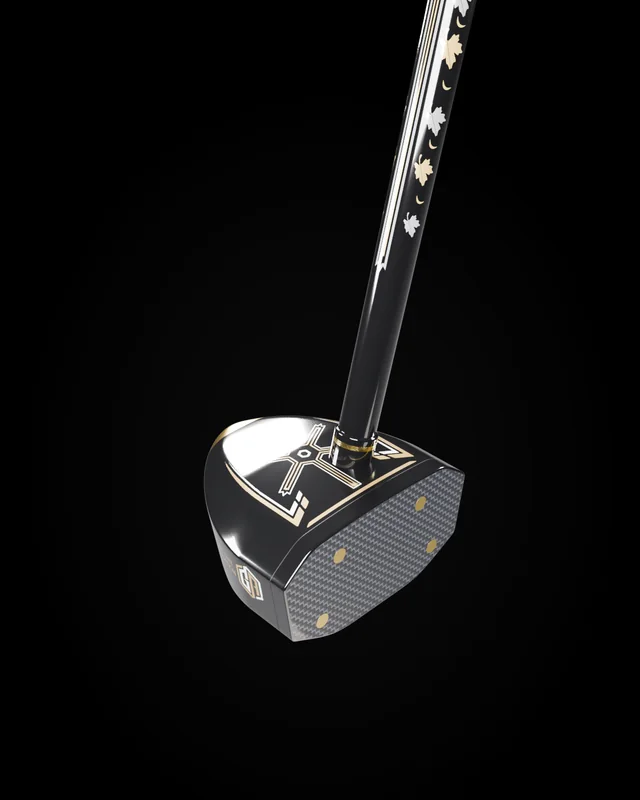
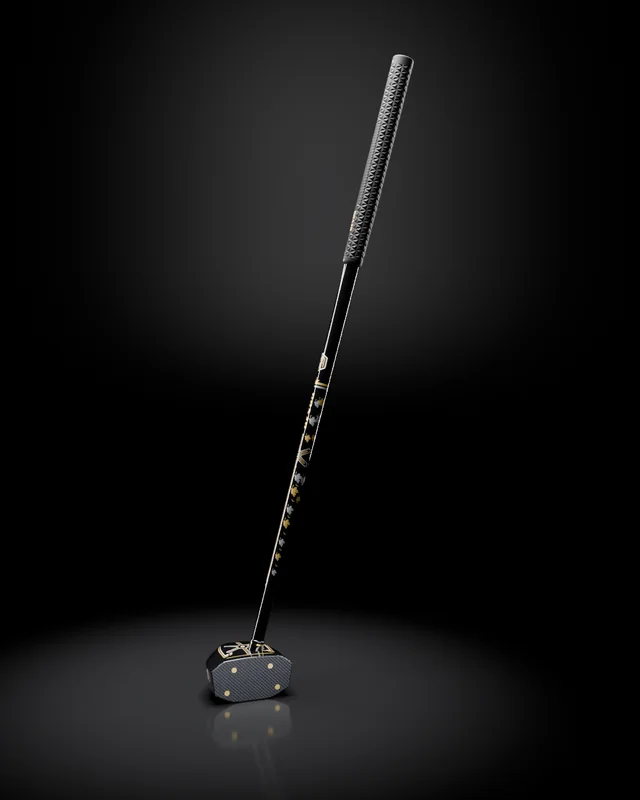
Home: DP-501 card as the whole club in a light column (like the DP-301 card); DP-301 purchase notes
- website/tools/render_card_501.py renders the card from the film scene (light-column backdrop,
  floor pool, rim lights); make_media_501.py --only card publishes it.
- DP-301 buy panel gets the same purchase notes as DP-501 (headcover included instead of the
  park golf certification, which does not apply to the putter).

Claude-Session: https://claude.ai/code/session_01GCpT9mK9AWHbd4r5LVPQn2

diff --git a/website/public/dp-301/index.html b/website/public/dp-301/index.html
@@ -330,7 +330,8 @@
       </a>
       <p class="small muted">스마트스토어 판매가는 425,000원입니다. 사이트에서 결제하시면 제주·도서산간도 배송비가 무료입니다.</p>
       <a class="btn btn-kakao btn-block" href="https://pf.kakao.com/_DFdvX/chat" target="_blank" rel="noopener"><svg viewBox="0 0 24 24" aria-hidden="true"><path d="M12 3.5c-5.25 0-9.5 3.33-9.5 7.44 0 2.66 1.78 4.99 4.46 6.3l-.9 3.3c-.08.29.25.52.5.35l3.95-2.62c.49.07.99.1 1.49.1 5.25 0 9.5-3.33 9.5-7.43S17.25 3.5 12 3.5z"/></svg><span>궁금한 점은 카카오톡으로 물어보세요</span></a>
-      <details class="fold">
+<ul class="trust" aria-label="구매 안내">
+<li>전용 헤드커버 포함</li><li>전국 무료배송</li><li>결제 후 1일 이내 발송</li><li>받은 날부터 7일 이내 교환·반품</li>      </ul>      <details class="fold">
         <summary>배송 · 교환 · 반품 안내</summary>
         <dl class="kv">
           <div><dt>배송비</dt><dd>전국 무료 (제주·도서산간 포함)</dd></div>

diff --git a/website/templates/index.html b/website/templates/index.html
@@ -173,6 +173,9 @@
       {% endif %}
       <p class="small muted">{{ t.buy_note }}</p>
       <a class="btn btn-kakao btn-block" href="{{ kakao_chat_url }}" target="_blank" rel="noopener"><svg viewBox="0 0 24 24" aria-hidden="true"><path d="M12 3.5c-5.25 0-9.5 3.33-9.5 7.44 0 2.66 1.78 4.99 4.46 6.3l-.9 3.3c-.08.29.25.52.5.35l3.95-2.62c.49.07.99.1 1.49.1 5.25 0 9.5-3.33 9.5-7.43S17.25 3.5 12 3.5z"/></svg><span>{{ t.kakao_ask }}</span></a>
+      {% if t.trust %}<ul class="trust" aria-label="구매 안내">
+        {% for x in t.trust %}<li>{{ x }}</li>{% endfor %}
+      </ul>{% endif %}
       <details class="fold">
         <summary>배송 · 교환 · 반품 안내</summary>
         <dl class="kv">

diff --git a/website/public/index.html b/website/public/index.html
@@ -71,7 +71,7 @@
     </article>
     <article class="product-card" data-reveal>
       <a class="product-media" href="/dp-501/" aria-label="GRAZR DP-501 파크골프채 자세히 보기">
-        <img src="/media/home/dp501-640.webp?v=30c9d25c" srcset="/media/home/dp501-640.webp?v=30c9d25c 640w, /media/home/dp501.webp?v=9daf1a22 1200w" sizes="(max-width: 900px) 92vw, 46vw"
+        <img src="/media/home/dp501-640.webp?v=9a3f8de1" srcset="/media/home/dp501-640.webp?v=9a3f8de1 640w, /media/home/dp501.webp?v=764c0569 1200w" sizes="(max-width: 900px) 92vw, 46vw"
              alt="GRAZR DP-501 파크골프채" width="1200" height="1500" loading="lazy">
       </a>
       <div class="product-copy">

diff --git a/website/tools/render_card_501.py b/website/tools/render_card_501.py
@@ -1,0 +1,118 @@
+"""Home-page card for the DP-501: the whole club standing in a soft light column, like the DP-301 card
+(website/tools/render_stills.py full_black). Uses the film scene (video501/scene.py) for the model,
+floor, lights and camera.
+
+  python3 website/tools/render_card_501.py --out 3d-model-dp501/site/card_full.png
+  python3 website/tools/render_card_501.py --out /tmp/x.png --preview
+"""
+import argparse
+import math
+import os
+import sys
+
+HERE = os.path.dirname(os.path.abspath(__file__))
+ROOT_DIR = os.path.dirname(os.path.dirname(HERE))
+sys.path.insert(0, os.path.join(ROOT_DIR, "video501"))
+sys.argv = [sys.argv[0]] + [a for a in sys.argv[1:]]
+import bpy  # noqa: E402
+from mathutils import Vector  # noqa: E402
+
+import scene as S  # noqa: E402
+
+# soft vertical light column far behind the club (the black shaft reads against it), as on the DP-301 card
+bd_me = bpy.data.meshes.new("backdrop")
+bd_me.from_pydata([(-1.5, -1.5, 0), (1.5, -1.5, 0), (1.5, 1.5, 0), (-1.5, 1.5, 0)], [], [(0, 1, 2, 3)])
+BACK = bpy.data.objects.new("Backdrop", bd_me)
+S.sc.collection.objects.link(BACK)
+m = bpy.data.materials.new("Backdrop_Glow")
+m.use_nodes = True
+nt = m.node_tree
+for n in list(nt.nodes):
+    if n.type != "OUTPUT_MATERIAL":
+        nt.nodes.remove(n)
+tco = nt.nodes.new("ShaderNodeTexCoord")
+sep = nt.nodes.new("ShaderNodeSeparateXYZ")
+nt.links.new(tco.outputs["Object"], sep.inputs[0])
+# glow = exp(-(x/wx)^2) * smoothstep falloff in y (brighter above), all in object space (metres)
+sx = nt.nodes.new("ShaderNodeMath"); sx.operation = "DIVIDE"; sx.inputs[1].default_value = 0.60
+nt.links.new(sep.outputs["X"], sx.inputs[0])
+sq = nt.nodes.new("ShaderNodeMath"); sq.operation = "POWER"; sq.inputs[1].default_value = 2.0
+nt.links.new(sx.outputs[0], sq.inputs[0])
+ng = nt.nodes.new("ShaderNodeMath"); ng.operation = "MULTIPLY"; ng.inputs[1].default_value = -1.0
+nt.links.new(sq.outputs[0], ng.inputs[0])
+ex = nt.nodes.new("ShaderNodeMath"); ex.operation = "EXPONENT"
+nt.links.new(ng.outputs[0], ex.inputs[0])
+vy = nt.nodes.new("ShaderNodeMapRange"); vy.interpolation_type = "SMOOTHERSTEP"
+vy.inputs["From Min"].default_value = -0.40
+vy.inputs["From Max"].default_value = 0.40
+nt.links.new(sep.outputs["Y"], vy.inputs["Value"])
+top = nt.nodes.new("ShaderNodeMapRange"); top.interpolation_type = "SMOOTHERSTEP"
+top.inputs["From Min"].default_value = 1.9
+top.inputs["From Max"].default_value = 0.55
+nt.links.new(sep.outputs["Y"], top.inputs["Value"])
+mul = nt.nodes.new("ShaderNodeMath"); mul.operation = "MULTIPLY"
+nt.links.new(ex.outputs[0], mul.inputs[0])
+nt.links.new(vy.outputs["Result"], mul.inputs[1])
+mul2 = nt.nodes.new("ShaderNodeMath"); mul2.operation = "MULTIPLY"
+nt.links.new(mul.outputs[0], mul2.inputs[0])
+nt.links.new(top.outputs["Result"], mul2.inputs[1])
+STRENGTH = nt.nodes.new("ShaderNodeMath"); STRENGTH.operation = "MULTIPLY"
+nt.links.new(mul2.outputs[0], STRENGTH.inputs[0])
+em = nt.nodes.new("ShaderNodeEmission")
+em.inputs["Color"].default_value = (0.92, 0.92, 0.94, 1)
+nt.links.new(STRENGTH.outputs[0], em.inputs["Strength"])
+nt.links.new(em.outputs[0], nt.nodes["Material Output"].inputs["Surface"])
+BACK.data.materials.append(m)
+for flag in ("visible_glossy", "visible_diffuse", "visible_shadow", "visible_transmission"):
+    setattr(BACK, flag, False)
+
+
+def pose(back_glow):
+    S.show(club=True, floor=True, ball=False)
+    S.ROOT.matrix_world = S.STAND
+    for o in S.HEAD_PARTS:
+        o.hide_render = False
+    for ob in S.LIGHTS.values():
+        ob.visible_glossy = True
+    tgt = S.axis_pt(400.0) + Vector((0.0, 0.0, -0.01))
+    d = Vector((-0.34, -0.94, 0.07)).normalized()
+    cam = tgt + d * 1.30
+    S.camera(cam, tgt, 45, fstop=8.0)
+    # backdrop: behind the club, facing the camera, centred a little above the head
+    back = tgt - d * 2.4
+    BACK.location = (back.x, back.y, 0.42)
+    n = (cam - back)
+    BACK.rotation_euler = (math.radians(90), 0, math.atan2(n.x, -n.y))
+    STRENGTH.inputs[1].default_value = back_glow
+    S.floor_pool(S.HC.x, S.HC.y, 0.10, 0.50)
+    hc = S.HC
+    S.light("key", hc + Vector((0.02, 0.06, 1.15)), hc, 420, size=(0.55, 0.55))
+    S.light("rimL", (-0.70, 0.55, 0.62), S.axis_pt(420), 150, size=(0.035, 1.6))
+    S.light("rimR", (0.85, 0.35, 0.66), S.axis_pt(420), 130, size=(0.035, 1.6))
+    S.light("soft", cam + Vector((-0.3, 0.1, 0.2)), S.axis_pt(380), 45, size=(0.8, 1.2))
+    S.LIGHTS["soft"].visible_glossy = False
+    S.light("top", hc + Vector((0.0, 0.10, 0.55)), hc, 12)
+    S.mirror_light("face", S.FACE_C, (0, -1, 0), 60, off=18.0)
+    S.lights_off("fill", "sweep")
+
+
+def main():
+    ap = argparse.ArgumentParser()
+    ap.add_argument("--out", required=True)
+    ap.add_argument("--preview", action="store_true")
+    ap.add_argument("--glow", type=float, default=0.06)
+    a = ap.parse_args()
+    S.setup_render("preview" if a.preview else "final")
+    r = S.sc.render
+    r.resolution_x, r.resolution_y = (480, 600) if a.preview else (1200, 1500)
+    S.cam_data.sensor_fit = "AUTO"
+    S.RES_ASPECT = r.resolution_y / r.resolution_x
+    if not a.preview:
+        S.sc.cycles.samples = 96
+    pose(a.glow)
+    r.filepath = a.out
+    bpy.ops.render.render(write_still=True)
+    print("wrote", a.out)
+
+
+main()

diff --git a/website/tools/make_media_501.py b/website/tools/make_media_501.py
@@ -94,7 +94,8 @@ def renders():
     full = Image.open(r("full.png"))
     save_webp(full, os.path.join(OUT, "full.webp"), 1200)
     save_webp(full, os.path.join(OUT, "thumb-640.webp"), 640)
-    card = Image.open(r("card.png"))
+    # home card: the whole club in a light column like the DP-301 card (tools/render_card_501.py)
+    card = Image.open(r("card_full.png") if os.path.exists(r("card_full.png")) else r("card.png"))
     save_webp(card, os.path.join(HOME, "dp501.webp"), 1200)
     save_webp(card, os.path.join(HOME, "dp501-640.webp"), 640)
     for k in ("brass", "maple", "shaft", "aim"):
@@ -187,7 +188,13 @@ def headcover():
         print(path, t.size)
 
 
-STEPS = {"photos": photos, "misc": misc, "renders": renders, "hero": hero, "clips": clips, "film": film,
+def card():
+    im = Image.open(os.path.join(RENDERS, "card_full.png"))
+    save_webp(im, os.path.join(HOME, "dp501.webp"), 1200)
+    save_webp(im, os.path.join(HOME, "dp501-640.webp"), 640)
+
+
+STEPS = {"card": card, "photos": photos, "misc": misc, "renders": renders, "hero": hero, "clips": clips, "film": film,
          "headcover": headcover}
 
 if __name__ == "__main__":

diff --git a/website/content.py b/website/content.py
@@ -160,6 +160,7 @@ KO = {
     "buy_direct": "사이트에서 바로 결제",
     "buy_direct_soon": "사이트 결제는 준비 중입니다.",
     "buy_note": "스마트스토어 판매가는 425,000원입니다. 사이트에서 결제하시면 제주·도서산간도 배송비가 무료입니다.",
+    "trust": ["전용 헤드커버 포함", "전국 무료배송", "결제 후 1일 이내 발송", "받은 날부터 7일 이내 교환·반품"],
     "faq_eyebrow": "FAQ",
     "faq_title": "자주 묻는 질문",
     "faq": [
